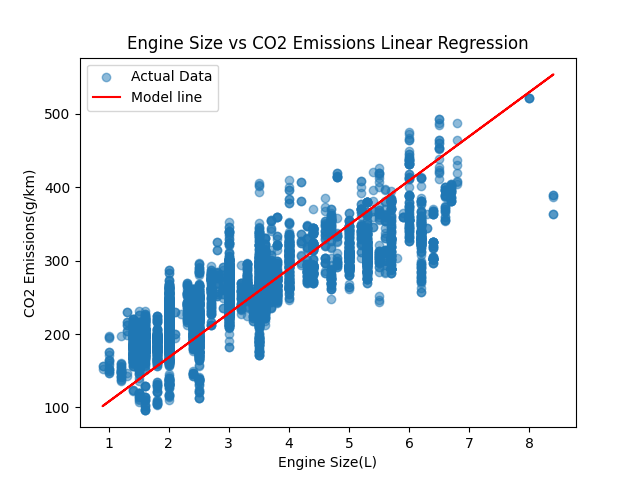
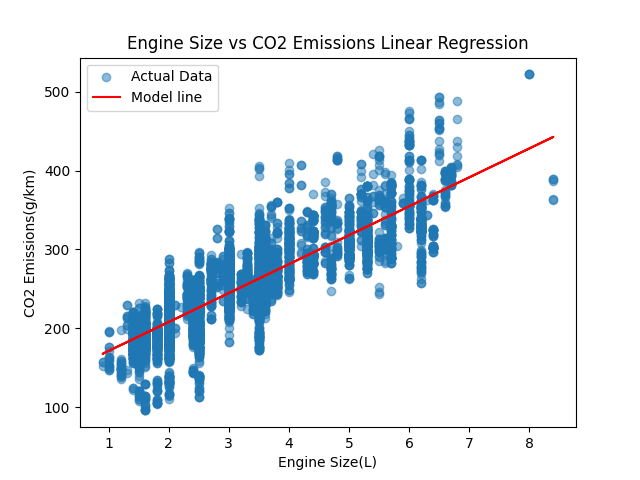
Upload plot images

diff --git a/README.md b/README.md
@@ -1,1 +1,73 @@
-# linear-regression
+Linear Regression on C02 Dataset
+This project explores building a linear regression model in three different ways:
+1. Using only Python built-ins
+2. Using NumPy and Pandas
+3. Standard machine learning libraries (scikit-learn)
+
+Dataset
+The data used was CO2 Emissions_Canada.csv which contains features of vehicles the project focuses on these two features:
+1. Engine Size(L) as input x
+2. CO2 Emissions (g/km) as output y
+
+Objectives:
+1. To predict CO2 emissions from engine size using linear regression
+2. Understand the math and logic behind the model
+
+Implementation:
+Linear Regression with Libraries
+File: libraries_linear_regression.py
+Output: plot_with_libraries.png 
+
+- Uses pandas, numpy, scikit-learn
+- StandardScaler handles feature scaling
+- LinearRegression model trains and predict with no need to specify epochs
+- Easiest and fastest to implement
+
+Linear Regression - NumPy and Pandas
+File: numpy_linear_regression.py
+Output: plot_only_numpy.png
+
+- Uses NumPy and Pandas for data handling
+- Manually implements gradient descent
+- Uses 3000 epochs with a training loop
+- Need manual experimentation or manual early stopping to find optimal epochs
+- Great for understanding and learning
+
+Linear Regression with No Libraries
+File: no_numpy_linear_regression.py
+Output: plot_no_numpy.png
+
+- Pure Python
+- CSV file read with csv module
+- Manual mean/standard deviation calculation
+- Loop based prediction and gradient decent with 3000 epochs
+- Reinforced deep understanding
+
+Standardization Explained
+Before training the model z-score normalisation was implemented. This ensures all values x and y are on the same scale. The average becomes 0 and the spread becomes 1. Firstly standard deviation needs to be calculated using this formula:
+![alt text](image-3.png)
+
+To calculate is:
+1. Find the mean of all the values
+2. Subtract the mean from each value
+3. Square each result
+4. Sum all the squared results
+5. Divide by the number of values
+6. Take the square root
+
+This tells us how much the data varies. We use this value to perform z-score normalisation. The formula for this is:
+![alt text](image-4.png)
+
+To calculate this:
+1. Subtract the original value from the mean
+2. Divide by the standard deviation
+
+Model Training and Loss
+The models aim to minise the Mean Squared Error, the formula is:
+![alt text](image-1.png)
+- w is the weight (slope)
+- b is the bias (intecrept)
+- To update the gradients a learning rate of 0.001 is used
+
+
+
